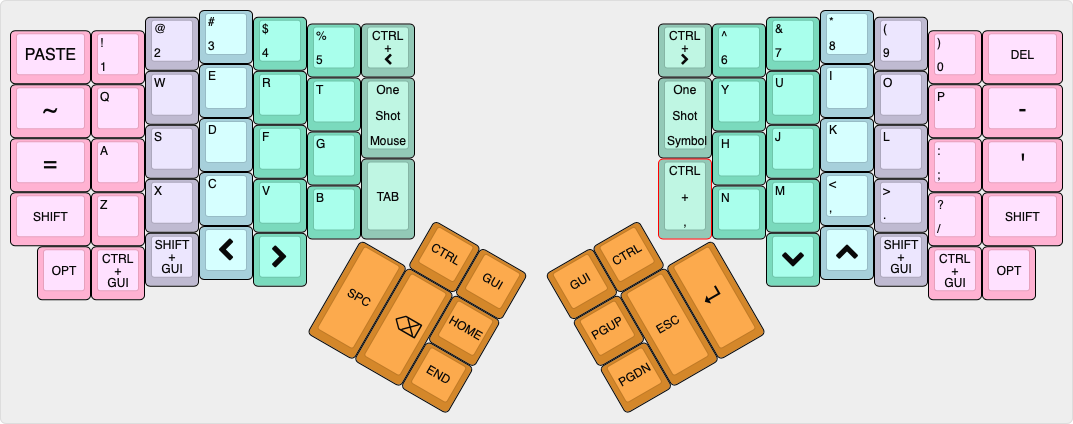
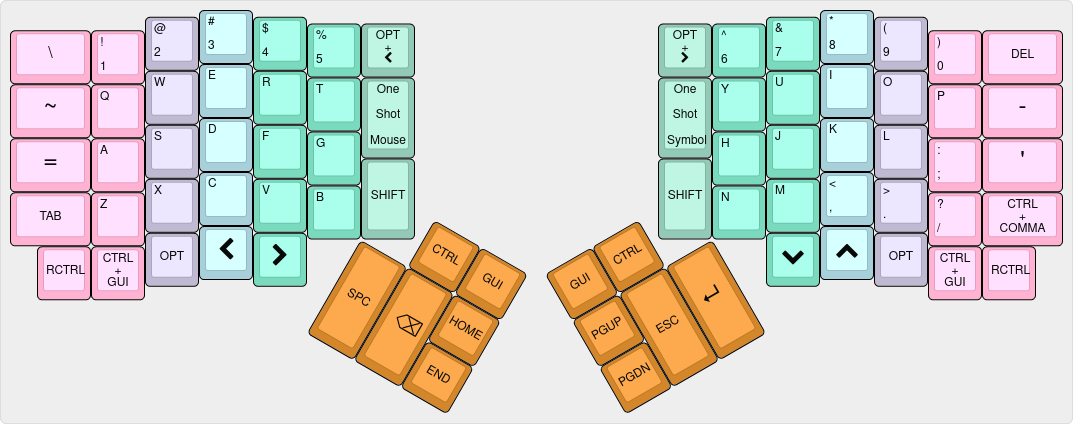
New Mac layout and tweak Linux layout.

diff --git a/mac/keymap.c b/mac/keymap.c
@@ -38,15 +38,15 @@ const uint16_t PROGMEM keymaps[][MATRIX_ROWS][MATRIX_COLS] = {
 /* Keymap 0: Base Layer
  *
  * ,-----------------------------------------------------.           ,-----------------------------------------------------.
- * |   PASTE   | 1  ! | 2  @ | 3  # | 4  $ | 5  % |OPT+LT|           |OPT+RT| 6  ^ | 7  & | 8  * | 9  ( | 10 ) |   DEL     |
+ * |     \     | 1  ! | 2  @ | 3  # | 4  $ | 5  % |OPT+LT|           |OPT+RT| 6  ^ | 7  & | 8  * | 9  ( | 10 ) |   DEL     |
  * |-----------+------+------+------+------+-------------|           |------+------+------+------+------+------+-----------|
  * |     ~     |   Q  |   W  |   E  |   R  |   T  |OneSht|           |OneSht|   Y  |   U  |   I  |   O  |   P  |     -     |
  * |-----------+------+------+------+------+------|Mouse |           |Symbl||------+------+------+------+------+-----------|
  * |     =     |   A  |   S  |   D  |   F  |   G  |------|           |------|   H  |   J  |   K  |   L  |   ;  |     '     |
- * |-----------+------+------+------+------+------| TAB  |           | CTRL |------+------+------+------+------+-----------|
- * |   SHIFT   |   Z  |   X  |   C  |   V  |   B  |      |           |  ,   |   N  |   M  |   ,  |   .  |   /  |   SHIFT   |
+ * |-----------+------+------+------+------+------| TAP  |           | TAP  |------+------+------+------+------+-----------|
+ * |   TAB     |   Z  |   X  |   C  |   V  |   B  | LSFT |           | RSFT |   N  |   M  |   ,  |   .  |   /  |   CTRL+,  |
  * `-----------+------+------+------+------+-------------'           `-------------+------+------+------+------+-----------'
- *     |  Opt  |CT+GUI|SF+GUI| Left | Right|                                       | Down |  Up  |SF+GUI|CT+GUI|  Opt  |
+ *     | RCTRL |CT+GUI|  Opt | Left | Right|                                       | Down |  Up  | Opt  |CT+GUI| RCTRL |
  *     `-----------------------------------'                                       `-----------------------------------'
  *                                         ,-------------.           ,-------------.
  *                                         | CTRL |  GUI |           | GUI  | CTRL |
@@ -59,28 +59,28 @@ const uint16_t PROGMEM keymaps[][MATRIX_ROWS][MATRIX_COLS] = {
 
   [BASE] = LAYOUT_ergodox(
             // left hand
-            KC_PASTE,       KC_1,           KC_2,              KC_3,    KC_4,    KC_5,       LALT(KC_LEFT),
-            KC_TILD,        KC_Q,           KC_W,              KC_E,    KC_R,    KC_T,       OSL(2),
-            KC_EQUAL,       KC_A,           KC_S,              KC_D,    KC_F,    SFT_T(KC_G),
-            F(F_SFT_L),     KC_Z,           KC_X,              KC_C,    KC_V,    KC_B,       KC_TAB,
-            KC_LALT,        LCTL(KC_LGUI),  LSFT(KC_LCTRL),    KC_LEFT, KC_RIGHT,
+            KC_BSLASH,      KC_1,           KC_2,       KC_3,    KC_4,    KC_5,       LALT(KC_LEFT),
+            KC_TILD,        KC_Q,           KC_W,       KC_E,    KC_R,    KC_T,       OSL(2),
+            KC_EQUAL,       KC_A,           KC_S,       KC_D,    KC_F,    SFT_T(KC_G),
+            KC_TAB,         KC_Z,           KC_X,       KC_C,    KC_V,    KC_B,       OSM(MOD_LSFT),
+            KC_RCTRL,       LCTL(KC_LGUI),  KC_LALT,    KC_LEFT, KC_RIGHT,
             
                                     // left thumb cluster
-                                            F(F_CTRL_L), F(F_GUI_L),
+                                               KC_LCTRL, KC_LGUI,
                                                          KC_HOME,
                                     KC_SPACE, KC_BSPACE, KC_END,
 
                                                     // right hand
-                                                    RALT(KC_RIGHT), KC_6,       KC_7,   KC_8,     KC_9,             KC_0,             KC_DELETE,
-                                                    OSL(1),         KC_Y,       KC_U,   KC_I,     KC_O,             KC_P,             KC_MINUS,
-                                                                    SFT_T(KC_H),KC_J,   KC_K,     KC_L,             KC_SCOLON,        KC_QUOTE,
-                                                    RCTL(KC_COMMA), KC_N,       KC_M,   KC_COMMA, KC_DOT,           KC_SLASH,         F(F_SFT_L), 
-                                                                                KC_DOWN,KC_UP,    RSFT(KC_RCTRL),   RCTL(KC_LGUI),    KC_RALT,
+                                                    RALT(KC_RIGHT), KC_6,       KC_7,   KC_8,     KC_9,      KC_0,             KC_DELETE,
+                                                    OSL(1),         KC_Y,       KC_U,   KC_I,     KC_O,      KC_P,             KC_MINUS,
+                                                                    SFT_T(KC_H),KC_J,   KC_K,     KC_L,      KC_SCOLON,        KC_QUOTE,
+                                                    OSM(MOD_LSFT),  KC_N,       KC_M,   KC_COMMA, KC_DOT,    KC_SLASH,         RCTL(KC_COMM), 
+                                                                                KC_DOWN,KC_UP,    KC_RALT,   RCTL(KC_LGUI),    KC_RCTRL,
 
                                                                     // right thumb cluster
-                                                                    F(F_GUI_L), F(F_CTRL_L),
+                                                                    KC_RGUI, KC_RCTRL,
                                                                     KC_PGUP,
-                                                                    KC_PGDOWN, KC_ESC, KC_ENTER
+                                                                    KC_PGDOWN, KC_ESCAPE, KC_ENTER
         ),
 
 /* Keymap 1: Symbol Layer
@@ -97,7 +97,7 @@ const uint16_t PROGMEM keymaps[][MATRIX_ROWS][MATRIX_COLS] = {
  *     |       |      |      |      |   \  |                                       |   =  |   0  |   .  |      |       |
  *     `-----------------------------------'                                       `-----------------------------------'
  *                                         ,-------------.           ,-------------.
- *                                         |      |      |           |      |RCTRL |
+ *                                         |      |      |           |      |      |
  *                                  ,------|------|------|           |------+------+------.
  *                                  |      |      |      |           |      |      |      |
  *                                  |      |      |------|           |------|      |      |
@@ -106,7 +106,7 @@ const uint16_t PROGMEM keymaps[][MATRIX_ROWS][MATRIX_COLS] = {
  */
   [SYMB] = LAYOUT_ergodox(
             // left hand
-             KC_INSERT,      KC_F1,          KC_F2,          KC_F3,          KC_F4,      KC_F5,      KC_TRANSPARENT,
+             KC_TRANSPARENT, KC_F1,          KC_F2,          KC_F3,          KC_F4,      KC_F5,      KC_TRANSPARENT,
              KC_TRANSPARENT, KC_GRAVE,       KC_AT,          KC_LCBR,        KC_RCBR,    KC_PIPE,    KC_TRANSPARENT,
              KC_TRANSPARENT, KC_HASH,        KC_DLR,         KC_LPRN,        KC_RPRN,    KC_AMPR,
              KC_TRANSPARENT, KC_PERC,        KC_CIRC,        KC_LBRACKET,    KC_RBRACKET,KC_DQUO,    KC_TRANSPARENT,
@@ -125,7 +125,7 @@ const uint16_t PROGMEM keymaps[][MATRIX_ROWS][MATRIX_COLS] = {
                                                             KC_EQUAL, KC_KP_0,    KC_KP_DOT,  KC_TRANSPARENT,   KC_TRANSPARENT,
 
                                             // right thumb cluster
-                                            KC_TRANSPARENT, KC_RCTRL,
+                                            KC_TRANSPARENT, KC_TRANSPARENT,
                                             KC_TRANSPARENT, 
                                             KC_TRANSPARENT, KC_TRANSPARENT, KC_TRANSPARENT  
             ),

diff --git a/linux/keymap.c b/linux/keymap.c
@@ -44,8 +44,8 @@ const uint16_t PROGMEM keymaps[][MATRIX_ROWS][MATRIX_COLS] = {
  * |     ~     |   Q  |   W  |   E  |   R  |   T  |OneSht|           |OneSht|   Y  |   U  |   I  |   O  |   P  |     -     |
  * |-----------+------+------+------+------+------|Mouse |           |Symbol|------+------+------+------+------+-----------|
  * |     =     |   A  |   S  |   D  |   F  |   G  |------|           |------|   H  |   J  |   K  |   L  |   ;  |     '     |
- * |-----------+------+------+------+------+------|SHIFT |           | SHIFT|------+------+------+------+------+-----------|
- * |    TAB    |   Z  |   X  |   C  |   V  |   B  |      |           |      |   N  |   M  |   ,  |   .  |   /  |   APPS    |
+ * |-----------+------+------+------+------+------| TAP  |           | TAP  |------+------+------+------+------+-----------|
+ * |    TAB    |   Z  |   X  |   C  |   V  |   B  | LSFT |           | RSFT |   N  |   M  |   ,  |   .  |   /  |   APPS    |
  * `-----------+------+------+------+------+-------------'           `-------------+------+------+------+------+-----------'
  *     | RCTRL |CT+ALT| GUI  | Left | Right|                                       | Down |  Up  | GUI  |CT+ALT| RCTRL |
  *     `-----------------------------------'                                       `-----------------------------------'
@@ -64,7 +64,7 @@ const uint16_t PROGMEM keymaps[][MATRIX_ROWS][MATRIX_COLS] = {
             KC_TILD,        KC_Q,           KC_W,      KC_E,    KC_R,    KC_T,       OSL(2),
             KC_EQUAL,       KC_A,           KC_S,      KC_D,    KC_F,    SFT_T(KC_G),
             KC_TAB,         KC_Z,           KC_X,      KC_C,    KC_V,    KC_B,       OSM(MOD_LSFT),
-            KC_RCTRL, LALT(KC_LCTRL), KC_LGUI,   KC_LEFT, KC_RIGHT,
+            KC_RCTRL,       LALT(KC_LCTRL), KC_LGUI,   KC_LEFT, KC_RIGHT,
 
                                     // left thumb cluster
 
@@ -72,12 +72,12 @@ const uint16_t PROGMEM keymaps[][MATRIX_ROWS][MATRIX_COLS] = {
                                                          KC_HOME,
                                     KC_SPACE, KC_BSPACE, KC_END,
 
-                                                    // right hand
-                                    RGUI(KC_PGDOWN),  KC_6,       KC_7,   KC_8,     KC_9,             KC_0,           KC_DELETE,
-                                    OSL(1),           KC_Y,       KC_U,   KC_I,     KC_O,             KC_P,           KC_MINUS,
-                                                                      SFT_T(KC_H),KC_J,   KC_K,     KC_L,             KC_SCOLON,      KC_QUOTE,
-                                                    OSM(MOD_LSFT),    KC_N,       KC_M,   KC_COMMA, KC_DOT,           KC_SLASH,       KC_APPLICATION,
-                                                                                  KC_DOWN,KC_UP,    KC_LGUI,          RALT(KC_RCTRL), KC_RCTRL,
+                                            // right hand
+                                            RGUI(KC_PGDOWN),  KC_6,       KC_7,   KC_8,     KC_9,             KC_0,           KC_DELETE,
+                                            OSL(1),           KC_Y,       KC_U,   KC_I,     KC_O,             KC_P,           KC_MINUS,  
+                                                              SFT_T(KC_H),KC_J,   KC_K,     KC_L,             KC_SCOLON,      KC_QUOTE,
+                                            OSM(MOD_LSFT),    KC_N,       KC_M,   KC_COMMA, KC_DOT,           KC_SLASH,       KC_APPLICATION,
+                                                                          KC_DOWN,KC_UP,    KC_LGUI,          RALT(KC_RCTRL), KC_RCTRL,
 
                                                                     // right thumb cluster
                                                                     KC_LALT, KC_LCTRL,
@@ -93,8 +93,8 @@ const uint16_t PROGMEM keymaps[][MATRIX_ROWS][MATRIX_COLS] = {
  * | PRINTSCRN |   `  |   @  |   {  |   }  |   |  |      |           |      |   *  |   7  |   8  |   9  |   &  |    F12    |
  * |-----------+------+------+------+------+------|      |           |      |------+------+------+------+------+-----------|
  * | CTRL+INS  |   #  |   $  |   (  |   )  |   &  |------|           |------|   +  |   4  |   5  |   6  |   _  | SHIFT+INS |
- * |-----------+------+------+------+------+------|      |           |      |------+------+------+------+------+-----------|
- * |           |   %  |   ^  |   [  |   ]  |   "  |      |           |      |   -  |   1  |   2  |   3  |   /  |           |
+ * |-----------+------+------+------+------+------| REG  |           | REG  |------+------+------+------+------+-----------|
+ * |           |   %  |   ^  |   [  |   ]  |   "  | LSFT |           | RSFT |   -  |   1  |   2  |   3  |   /  |           |
  * `-----------+------+------+------+------+-------------'           `-------------+------+------+------+------+-----------'
  *     | RALT  |      |      |      |   \  |                                       |   =  |   0  |   .  |      | RALT  |
  *     `-----------------------------------'                                       `-----------------------------------'
@@ -111,17 +111,19 @@ const uint16_t PROGMEM keymaps[][MATRIX_ROWS][MATRIX_COLS] = {
              KC_NUMLOCK,           KC_F1,          KC_F2,          KC_F3,          KC_F4,      KC_F5,      KC_TRANSPARENT,
              KC_PSCREEN,           KC_GRAVE,       KC_AT,          KC_LCBR,        KC_RCBR,    KC_PIPE,    KC_TRANSPARENT,
              LCTL(KC_INSERT),      KC_HASH,        KC_DLR,         KC_LPRN,        KC_RPRN,    KC_AMPR,
-             KC_TRANSPARENT,       KC_PERC,        KC_CIRC,        KC_LBRACKET,    KC_RBRACKET,KC_DQUO,    KC_TRANSPARENT,
-             KC_RALT,       KC_TRANSPARENT, KC_TRANSPARENT, KC_TRANSPARENT, KC_BSLASH,
+             KC_TRANSPARENT,       KC_PERC,        KC_CIRC,        KC_LBRACKET,    KC_RBRACKET,KC_DQUO,    KC_LSFT,
+             KC_RALT,              KC_TRANSPARENT, KC_TRANSPARENT, KC_TRANSPARENT, KC_BSLASH,
 
                     // left thumb cluster
-                    KC_TRANSPARENT, KC_TRANSPARENT, KC_TRANSPARENT, KC_TRANSPARENT, KC_TRANSPARENT, KC_TRANSPARENT,
+                    KC_TRANSPARENT, KC_TRANSPARENT, 
+                                    KC_TRANSPARENT,
+    KC_TRANSPARENT, KC_TRANSPARENT, KC_TRANSPARENT,
 
                             // right hand
                             KC_TRANSPARENT,  KC_F6,          KC_F7,    KC_F8,      KC_F9,      KC_F10,           KC_F11,
                             KC_TRANSPARENT,  KC_ASTR,        KC_KP_7,  KC_KP_8,    KC_KP_9,    KC_AMPR,          KC_F12,
                                              KC_PLUS,        KC_KP_4,  KC_KP_5,    KC_KP_6,    KC_UNDS,          LSFT(KC_INSERT),
-                            KC_TRANSPARENT,  KC_MINUS,       KC_KP_1,  KC_KP_2,    KC_KP_3,    KC_SLASH,         KC_TRANSPARENT,
+                            KC_RSFT,         KC_MINUS,       KC_KP_1,  KC_KP_2,    KC_KP_3,    KC_SLASH,         KC_TRANSPARENT,
                                                              KC_EQUAL, KC_KP_0,    KC_KP_DOT,  KC_TRANSPARENT,   KC_RALT,
 
                                             // right thumb cluster
